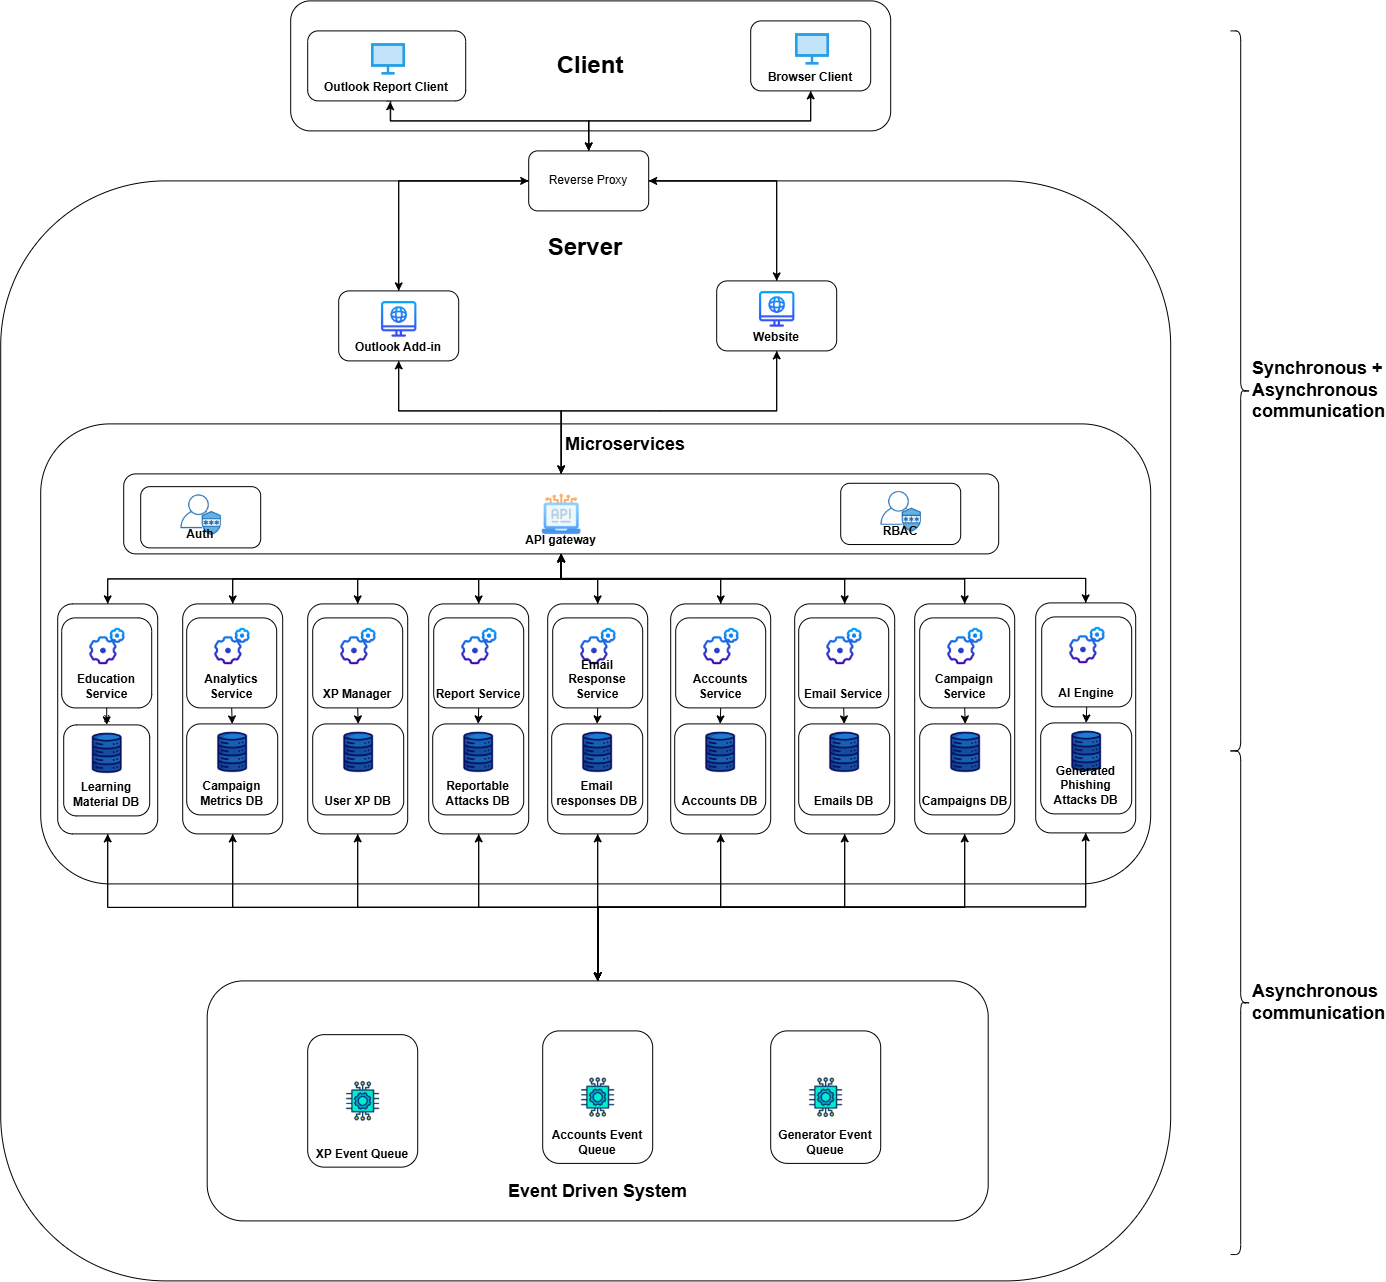
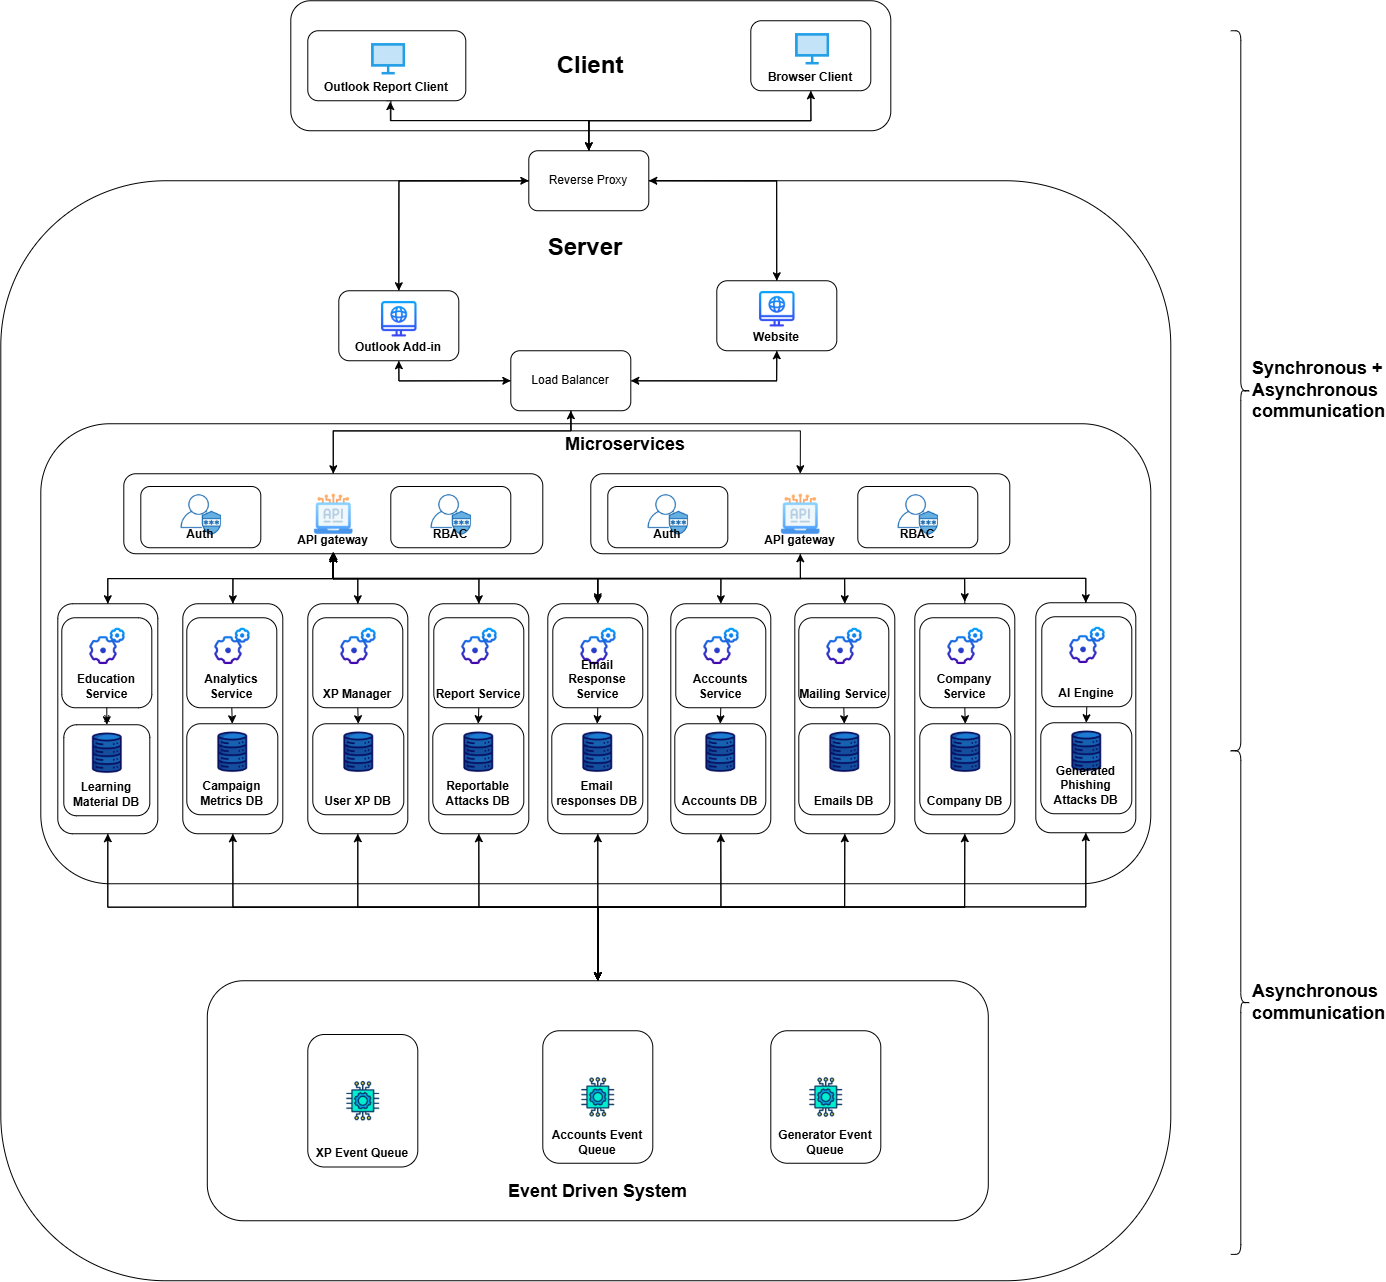
updated architecture docs

diff --git a/docs/SRS/Software-Architecture-Specification.md b/docs/SRS/Software-Architecture-Specification.md
@@ -54,29 +54,122 @@ Microservices each handle their own methods of communication. The only dependenc
 
 ### Quality Requirements based off of [NFR](./Software_Requirements_Specification.md#non-functional-requirements)
 
-**NFR 1 Quality attribute:** Security
-1. Confidentiality: All data in transit is encrypted using TLS 1.3, and all sensitive data at rest is encrypted using AES-256 encryption standards.
-2. Authenticity: All protected requests are authenticated with Role-Based Access Control (RBAC).
+#### NFR 1 Quality attribute: Security
+1. Authenticity: The system shall authenticate and authorize all protected API requests using **Role-Based Access Control (RBAC)** enforced at the API gateway layer with server-side validation on **100% of protected endpoints.**
+2. Confidentiality: The system shall encrypt all data in transit using **TLS 1.3** and encrypt sensitive data at rest using **AES-256 encryption standards.**
 
-**Tactic:** Use RBAC in the API gateway.
+**Tactic:** Use RBAC in the API gateway, use authorization tokens, use encrypted communication paths and encrypt sensitve fields in the databases.
 
 **Pattern:** Centralized API gateway authentication pattern.
 
-**ADR-01** Data encrypted in transit and at rest 
-|**Context**|**Decision**|**Consquences**|
-|---|---|---|
-| Data in transit needs to be encrypted. Sensetive data at rest must also be kept confidential. | Use HTTPS for all requests. | TODO |
-
-**ADR-02** Users authenticated and RBAC for protect endpoints 
+**ADR-01** Users authenticated and RBAC for protect endpoints 
 |**Context**|**Decision**|**Consquences**|
 |---|---|---|
 | Only authenticated users should be able to have access to the system. Users have specific roles and should only have access to what their role is ment to have access to. | Apply RBAC at the API gateway with Auth0. Use Auth0 for all authorization requests. | No RBAC is applied at microservices. Thus all requests have to go to the API gateway first and it should not be possible to send a request directly to a microservice. |
+
+**ADR-02** Data encrypted in transit and at rest 
+|**Context**|**Decision**|**Consquences**|
+|---|---|---|
+| Data in transit needs to be encrypted. Sensetive data at rest must also be kept confidential. | Use HTTPS for all requests. | Reduces performance. More processing time is used to encrypt and decrypt data. |
 
 **NRF Test:** 
 - Test that only HTTPS requests work. 
 - Test that unautherized users do not have access to the system.
 
- 1. Flexibility: See [NFR 6](./Software_Requirements_Specification.md#non-functional-requirements)
+#### NFR 2 Quality attribute: Performance
+1. The system shall handle XP transactions and leader board updates within **500ms** of user action.
+2. The system shall load “Teachable moment” screens within **1s** of clicking a link on a phishing email.
+3. The system shall display confirmation toasts in the Outlook Add-in feature within **300ms.**
+4. The admin dashboard shall update live analytics and leaderboard data within **2 seconds** of receiving new event data through WebSocket communication.
+
+**Tactic:** Spread the load accross 2 API gateway instances, make use of caching for non-live reads, optimize database indexing.
+
+**Pattern:** Add a load balancer to balance requests between two API gateways. 
+
+**ADR-03** Load balancer for API gateway traffic
+|**Context**|**Decision**|**Consquences**|
+|---|---|---|
+| Many requests for different services need to pass through the API gateway. Response time needs to be optimal according the the measures in the quality attribute. | Add a second API gateway instance and use a load balancer to spread the load. | Increases the complexity of the system and adds a bit of latancy. |
+
+**NRF Test:** 
+- Test system responsiveness with 500 concurent users. 
+- Test that the response time is within 1s.
+
+#### NFR 3 Quality attribute: Portability and Compatibility
+1. The system’s admin dashboard shall support standard desktop resolutions and maintain usability across commonly used screen sizes including **resolutions from 1280px to 1920px+ .** 
+2. The system’s “report phish” button must appear on the **Outlook ribbon on Desktop, Web, and Mobile.**
+3. The platform shall be deployable on **Ubuntu Server environments** using Docker and Docker Compose without requiring platform-specific modifications.
+
+**Tactic:** Use Infrastructure as Code (IaC) and containerisation, use multiplatform design for frontend systems.
+
+**Pattern:** Use docker and docker compose, use tailwind css to handle resolution scaling.
+
+**ADR-04** Containerise all services
+|**Context**|**Decision**|**Consquences**|
+|---|---|---|
+| System should be deployable on any ubuntu server environment. | Create a docker container for each service in the system | Running many containers on a server may use up server resources but limits can be added to ensure the system runs efficiently. |
+
+**NRF Test:** 
+- System is deployable on ubuntu servers.
+- Frontend design scales well on large screens and the report button can be used on multiple devices.
+
+#### NFR 4 Quality attribute: Usability
+1. The system’s “report phish” button must follow the **Microsoft Fluent UI design system.**
+2. The system shall comply with **WCAG 2.1 AA accessibility** guidelines for all user-facing dashboards and interfaces.
+3. The system shall provide **immediate visual feedback** for all critical user actions including reporting phishing emails, completing simulations, and earning XP rewards.
+
+**NRF Test:** 
+- WCAG 2.1 AA accessibility compliance
+
+#### NFR 5 Quality attribute: Reliability and Availability
+1. Availability: The system must have 99.9% uptime.
+2. Recoverability: In the event of an AI provider failure, the system shall automatically switch to the fallback Llama-3 model within 30 seconds.
+
+**Tactic:** Remove single points of failure, log requests, error exception communication, switch service provider.
+
+**Pattern:** Load balancing, log at load balancer, add a LLM gateway.
+
+**ADR-05** LLM gateway
+|**Context**|**Decision**|**Consquences**|
+|---|---|---|
+| Should an external LLM be unavailable the system should still be able to operate and generate emails. | Add an LLM gateway to route requests to available LLMs. | Introduces extra overhead to system and can degrade performance. |
+
+*For load balancing see ADR-03.
+
+**NRF Test:** 
+- Uptime checks should yield >99.9% uptime.
+- LLM service responds to requests even if a model is not working anymore.
+
+#### NFR 6 Quality attribute: Flexibility:
+1. Scalable: The system must be able to scale to handle 500 concurrent users.
+2. Adaptable: Horizontal scaling of the AI Engine, Analytics, and Authentication services independently.
+
+**Tactic:** Spread the load accross multiple independent services.
+
+**Pattern:** Microservices
+
+**ADR-07** Microservices
+|**Context**|**Decision**|**Consquences**|
+|---|---|---|
+| System must be able to scale well and handle 500 concurrent users. | Use microservices to spread requests between many independent services. | Introduces increased complexity to the system. |
+
+
+**NRF Test:** 
+- System still responds under 500 concurent users.
+- Adding more services independently scales easily.
+
+#### NFR 7 Quality attribute: Maintainability
+1. The system shall make use of the microservices architecture to increase the maintainability of each subsystem.
+2. The complete application stack shall be fully containerized using Docker and orchestrated through Docker Compose for deployment handoff.
+3. All backend endpoints shall be documented using OpenAPI 3.0 documentation standards.
+4. The CI/CD pipeline shall automatically execute unit and integration tests on every push to the main development branches through GitHub Actions.
+5. The system shall achieve a minimum automated backend test coverage of 80%.The system shall achieve a minimum automated backend test coverage of 80%.
+
+**NRF Test:** 
+- CI/CD pipeline tests pass.
+- Code coverage of 80% is reached.
+
+ <!-- 1. Flexibility: See [NFR 6](./Software_Requirements_Specification.md#non-functional-requirements)
 
 	Adaptable:<br>
 	The system should be adaptable so that through out the development of the platform new subsystems can easily be added and updated by swapping out a certain microservice. This can be measured by checking:<br>
@@ -91,13 +184,13 @@ Microservices each handle their own methods of communication. The only dependenc
 
 	Architectural Decision:<br>
 	- Use microservices to suport adaptable  development.
-	- Use a load balancer to balance requests between multiple instances of the api-gateway.
+	- Use a load balancer to balance requests between multiple instances of the api-gateway. -->
 
- 2. Maintainability: See [NFR 7](./Software_Requirements_Specification.md#non-functional-requirements)
+ <!-- 2. Maintainability: See [NFR 7](./Software_Requirements_Specification.md#non-functional-requirements)
 
-	It is important for the system to be maintainable so that through out the development process and during handover it will be possible for anyone to maintain the life time of the system. It is also important that business operation are not disrupted during the life time of the platform.
+	It is important for the system to be maintainable so that through out the development process and during handover it will be possible for anyone to maintain the life time of the system. It is also important that business operation are not disrupted during the life time of the platform. -->
 
- 3. Performance Efficiency: See [NFR 2](./Software_Requirements_Specification.md#non-functional-requirements)
+ <!-- 3. Performance Efficiency: See [NFR 2](./Software_Requirements_Specification.md#non-functional-requirements)
 
 	Performance of the system is important to maintain the live updates of statistics. This can be measured by checking:
 	- the number of requests handled per second
@@ -108,11 +201,11 @@ Microservices each handle their own methods of communication. The only dependenc
 	- handle 500 requests per second
 
 	Architectural Descision:
-	- Make use of caching for non-live reads
-	- Optimize database indexing
-	- Asyncronise backround processing
+	- 
+	- 
+	- Asyncronise backround processing -->
 
- 4. Reliability: See See [NFR 5](./Software_Requirements_Specification.md#non-functional-requirements)
+ <!-- 4. Reliability: See See [NFR 5](./Software_Requirements_Specification.md#non-functional-requirements)
 	
 	The system should be reliable and maintain a high uptime. In any event of a failure with an LLM the system should fallback to another model.
 
@@ -122,25 +215,9 @@ Microservices each handle their own methods of communication. The only dependenc
 
 	Architectural descision:
 	- Make use of a load balancer and spin up multiple instances of the api-gateway. Balance requests between the instances.
-	- Add restart mechanisms to all services.
+	- Add restart mechanisms to all services. -->
 
- <!-- 5. Security See [NFR 1](./Software_Requirements_Specification.md#non-functional-requirements)
-
-	The system must be secure as it will be dealing with personal details, and no unauthorized access should be allowed. The security is checked by:
-	- ensuring all data at rest and in transit are encrypted
-	- preventing injection and CSRF attacks
-
-	Quantification:
-	- RBAC on 100% of protected endpoints.
-	- 100% of data is encrypted in transit using TLS.
-	- 100% of sensitive data at rest is encrypted using AES-256 standers. (Snesitive data is catagorized by POPIA and GDPR)
-	
-	Architectural Decision:
-	- Implementation of AES-256 encryption at
-	rest
-	- TLS 1.3 for secure communication. -->
-
- 6. Auditability:
+ <!-- 6. Auditability:
 
 	The system should be auditable to comply with POPIA and GDPR laws. It also allows any faults to be found and understood. This can be checked by:
 	- error logs, application logs, access logs
@@ -151,23 +228,23 @@ Microservices each handle their own methods of communication. The only dependenc
 	The system must be functionally suitable, meaning the system must be tested for logical errors. All functions and operations must be tested with unit and integration tests. Code coverage should be above 80%. This can be measured by checking:
 	- automation of unit tests on GitHub actions
 	- the build status of the system
-	- the code testing coverage 
+	- the code testing coverage  -->
 
- 8. Interaction capability: See [NFR 4](./Software_Requirements_Specification.md#non-functional-requirements)
+ <!-- 8. Interaction capability: See [NFR 4](./Software_Requirements_Specification.md#non-functional-requirements)
 
 	The system must be usable and easy to interact with. Employees should not need to be trained on how to use the system. The system must be intuitive providing good user experience. This can be measured by checking:
 	- development of wireframes
 	- performance of UI tests
 
 	Quantification:
-	- WCAG 2.1 AA accessibility compliance
+	-  -->
 
-9. Compatibility See [NFR 3](./Software_Requirements_Specification.md#non-functional-requirements)
+<!-- 9. Compatibility See [NFR 3](./Software_Requirements_Specification.md#non-functional-requirements)
 
 	The compatibility of the system is very important so that future integration with HR systems can take place. Using microservices enables the system to be integrated easily due to the separation of concerns.<br>
 	Quantification:
 	- Deployed on a single server using docker
-	- Compatible on screen resolutions from 1280px to 1920px+
+	- Compatible on screen resolutions from 1280px to 1920px+ -->
 
 ## Technology Requirements
 
